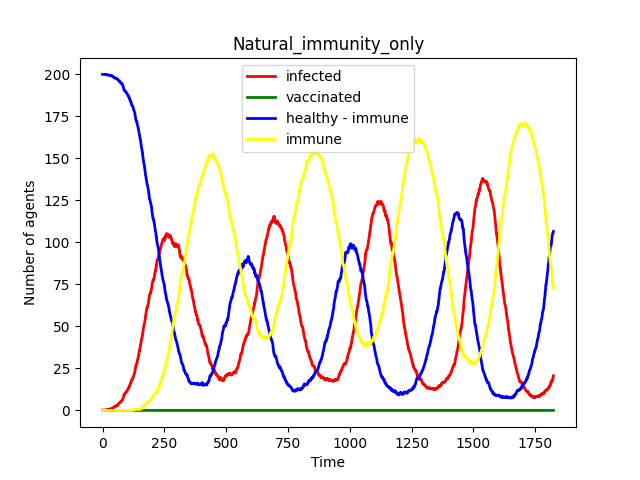
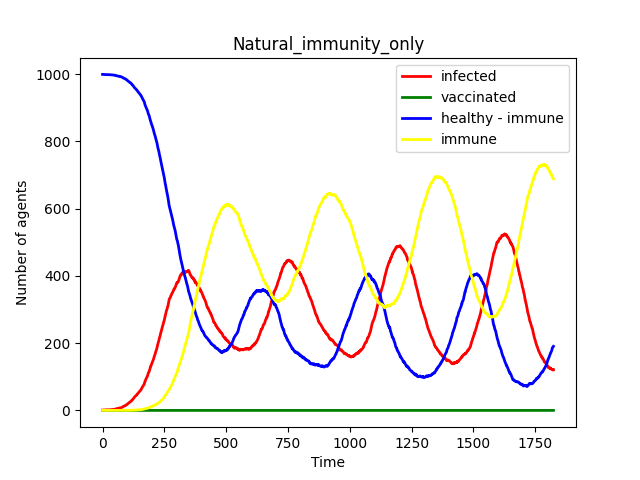
Expériences 2

diff --git a/agent.py b/agent.py
@@ -1,109 +1,106 @@
 from random import randint, random
 
+
 class Agent():
-	"""docstring for Agent."""
-	def __init__(self,i, x, y, vx, vy, pdei):
-		self.id = i
-		self.x = x
-		self.y = y
-		self.vx = vx
-		self.vy = vy
-		self.radius = 10
-		self.infected = False
-		self.infection_time = 0
-		self.infection_duration = randint(90, 150)
-		self.infection_probability = pdei
-		self.infection_radius = 100
-		self.recovered = False
-		self.dejaeu = False
-		self.vaccinate = False
-		self.last_infection_time = 0
-		self.end_infection_time = 0
-		self.end_immune_time = 0
-		self.immune = False
-		self.end_vaccination_time = 0
-		self.dejaetevaccine = False
+    """docstring for Agent."""
 
-	def move(self, container):
-		self.x += self.vx 
-		self.y += self.vy 
+    def __init__(self, i, x, y, vx, vy, pdei):
+        self.id = i
+        self.x = x
+        self.y = y
+        self.vx = vx
+        self.vy = vy
+        self.radius = 10
+        self.infected = False
+        self.infection_time = 0
+        self.infection_duration = randint(90, 150)
+        self.infection_probability = pdei
+        self.infection_radius = 100
+        self.recovered = False
+        self.dejaeu = False
+        self.vaccinate = False
+        self.last_infection_time = 0
+        self.end_infection_time = 0
+        self.end_immune_time = 0
+        self.immune = False
+        self.end_vaccination_time = 0
+        self.dejaetevaccine = False
 
-		if self.x < 0:
-			self.x = 0
-			self.vx = -self.vx
-		
-		elif self.x > container.w:
-			self.x = container.w
-			self.vx = -self.vx
-		
-		elif self.y < 0:
-			self.y = 0
-			self.vy = -self.vy
+    def move(self, container):
+        self.x += self.vx
+        self.y += self.vy
 
-		elif self.y > container.h:
-			self.y = container.h
-			self.vy = -self.vy
+        if self.x < 0:
+            self.x = 0
+            self.vx = -self.vx
 
-	
-	def get_infected(self, time, container):
-		self.infected = True
-		self.infection_time = time
-		self.last_infection_time = time
-		self.end_infection_time = time + self.infection_duration
+        elif self.x > container.w:
+            self.x = container.w
+            self.vx = -self.vx
 
-		container.healthys.remove(self)
-		container.infecteds.append(self)
+        elif self.y < 0:
+            self.y = 0
+            self.vy = -self.vy
 
+        elif self.y > container.h:
+            self.y = container.h
+            self.vy = -self.vy
 
-	def check_for_getting_healthy(self, time, container):
-		if time - self.infection_time > self.infection_duration:
-			self.infected = False	
+    def get_infected(self, time, container):
+        self.infected = True
+        self.infection_time = time
+        self.last_infection_time = time
+        self.end_infection_time = time + self.infection_duration
 
-			container.infecteds.remove(self)
-			container.healthys.append(self)
+        container.healthys.remove(self)
+        container.infecteds.append(self)
 
-			if not self.dejaeu:
-				self.dejaeu = True
-			
-			self.infection_probability /= 0.9
-			
-			self.end_immune_time = self.end_infection_time + 200
-			self.immune = True
+    def check_for_getting_healthy(self, time, container):
+        if time - self.infection_time > self.infection_duration:
+            self.infected = False
 
-			container.immunes.append(self)
+            container.infecteds.remove(self)
+            container.healthys.append(self)
 
-			
-	def distance(self, agent):
-		return ((self.x - agent.x)**2 + (self.y - agent.y)**2)**0.5
+            if not self.dejaeu:
+                self.dejaeu = True
 
+            self.infection_probability /= 0.9
 
-	def infect_neighbours(self, container, time):
-		suspects = list(filter(lambda a: a.id != self.id and not a.vaccinate and not a.immune and a.distance(self) < self.infection_radius, container.healthys))
+            self.end_immune_time = self.end_infection_time + 200
+            self.immune = True
 
-		tours = 0
-		for agent in suspects:
-			tours += 1
-			if random() < agent.infection_probability:
-				agent.get_infected(time, container)
+            container.immunes.append(self)
 
-		return tours
+    def distance(self, agent):
+        return ((self.x - agent.x)**2 + (self.y - agent.y)**2)**0.5
 
-	def get_vaccinated(self, vaccinateds, time):
-		if not self.dejaetevaccine:
-			self.vaccinate = True
-			t =  randint(180, 240)
-			self.end_vaccination_time = time + t
-			self.dejaetevaccine = True
-			vaccinateds.append(self)
+    def infect_neighbours(self, container, time):
+        suspects = list(filter(lambda a: a.id != self.id and not a.vaccinate and not a.immune and a.distance(
+            self) < self.infection_radius, container.healthys))
 
+        tours = 0
+        for agent in suspects:
+            tours += 1
+            if random() < agent.infection_probability:
+                agent.get_infected(time, container)
 
-	def remove_immunity(self, container, time):
-		if self.immune and time > self.end_immune_time:
-			self.immune = False
-			container.immunes.remove(self)
+        return tours
 
-	
-	def remove_vaccination(self, container, time):
-		if self.vaccinate and time > self.end_vaccination_time:
-			self.vaccinate = False
-			container.vaccinateds.remove(self)
+    def get_vaccinated(self, vaccinateds, time):
+        if not self.dejaetevaccine:
+            self.vaccinate = True
+            t = randint(180, 240)
+            self.end_vaccination_time = time + t
+            self.dejaetevaccine = True
+            vaccinateds.append(self)
+
+    def remove_immunity(self, container, time):
+        if self.immune and time > self.end_immune_time:
+            self.immune = False
+            container.immunes.remove(self)
+
+    def remove_vaccination(self, container, time):
+        if self.vaccinate and time > self.end_vaccination_time:
+            self.vaccinate = False
+            container.vaccinateds.remove(self)

diff --git a/model.py b/model.py
@@ -6,7 +6,7 @@ import matplotlib.pyplot as plt
 from time import time
 
 
-def main(name, conf, gestesB, nbr_vacc, history, t):
+def main(conf, gestesB, nbr_vacc, history, t):
     # Initialisation
 
     w, h = 5000, 5000
@@ -14,8 +14,9 @@ def main(name, conf, gestesB, nbr_vacc, history, t):
 
     confinement = conf
     gestesBarrieres = gestesB
-    container.agents = [Agent(i, randint(10, w-10), randint(10, h-10), randint(-20, 20) //
-                              confinement, randint(-20, 20) // confinement, 0.035/gestesBarrieres) for i in range(1000)]
+    container.agents = [Agent(i, randint(10, w-10), randint(10, h-10), randint(-20, 20) // confinement, randint(-20, 20) // confinement, 0.035/gestesBarrieres) for i in range(1000)]
+
+    # print(len(container.agents) - len(container.immunes))
 
     patient0 = choice(container.agents)
 
@@ -29,10 +30,10 @@ def main(name, conf, gestesB, nbr_vacc, history, t):
         tours = 0
         # print("{}/{}".format(i, t), end="    \r")
 
-        history["infected_history"][i] = len(container.infecteds)/5
-        history["healthy_history"][i] = len(container.healthys)/5
-        history["vaccinated_history"][i] = len(container.vaccinateds)/5
-        history["immune_history"][i] = len(container.immunes)/5
+        history["infected_history"][i] += len(container.infecteds)/5
+        history["healthy_history"][i] += len(container.healthys)/5
+        history["vaccinated_history"][i] += len(container.vaccinateds)/5
+        history["immune_history"][i] += len(container.immunes)/5
 
         for agent in container.agents:
             tours += 1
@@ -58,7 +59,7 @@ def main(name, conf, gestesB, nbr_vacc, history, t):
 
         i += 1
 
-        # print("time: {}, infecteds: {}, healthys: {}, len(l): {} nbr_v/j: {}, vaccinates: {}, tours: {}".format(i, len(container.infecteds), len(container.healthys), len(l), nbr_v, len(container.vaccinateds),tours), end="                                              \r")
+        # print("time: {}, infecteds: {}, healthys: {}, len(l): {} nbr_v/j: {}, vaccinates: {}, tours: {}".format(i, len(container.infecteds), len(container.healthys), len(l), nbr_v, len(container.vaccinateds), tours), end="\r")
 
     # print(sum(infected_history))
 
@@ -85,11 +86,11 @@ if __name__ == "__main__":
         print(name)
 
         history = {
-            "infected_history": [None] * t,
-            "healthy_history": [None] * t,
-            "vaccinated_history": [None] * t,
-            "immune_history": [None] * t,
-            "sainsmoinsimmune": [None] * t,
+            "infected_history": [0] * t,
+            "healthy_history": [0] * t,
+            "vaccinated_history": [0] * t,
+            "immune_history": [0] * t,
+            "sainsmoinsimmune": [0] * t,
 
         }
 
@@ -164,7 +165,7 @@ if __name__ == "__main__":
             nbr_vacc = 5
 
         for j in range(5):
-            main(name, confinement, gestesBarrieres, nbr_vacc, history, t)
+            main(confinement, gestesBarrieres, nbr_vacc, history, t)
 
         for i in range(len(history["healthy_history"])):
             history["sainsmoinsimmune"][i] = history["healthy_history"][i] - \

diff --git a/container.py b/container.py
@@ -3,17 +3,17 @@ from random import choice
 
 
 class Container():
-	"""docstring for Container."""
-	def __init__(self, w, h):
-		self.w = w
-		self.h = h
-		self.agents = []
-		self.healthys = []
-		self.infecteds = []
-		self.vaccinateds = []
-		self.immunes = []
+    """docstring for Container."""
 
-	
-	def vaccine_people(self, agents, time):
-		for agent in agents:
-			agent.get_vaccinated(self.vaccinateds, time)
+    def __init__(self, w, h):
+        self.w = w
+        self.h = h
+        self.agents = []
+        self.healthys = []
+        self.infecteds = []
+        self.vaccinateds = []
+        self.immunes = []
+
+    def vaccine_people(self, agents, time):
+        for agent in agents:
+            agent.get_vaccinated(self.vaccinateds, time)

diff --git a/README.md b/README.md
@@ -39,16 +39,18 @@ Dans toutes nos simulations nous utilisons un nombre d'agents fixé à 1000, un 
 
 Avant de commencer à endiguer la maladie, nous avons simuler l'évolution de celle-ci sans mesures de restrictions. Voici le résultat obtenu:
 
-![Natural immunity only](./Courbes/1000_agents_1_contaminé_5_ans/natural_immunity_only.png)
+![Natural immunity only](./Courbes/1000_agents_1_contaminé_5_ans/Natural_immunity_only.png)
 
 On observe des vagues de guérisons et de contaminations qui s'étendent jusqu'à la fin de la simulation. Ces vagues sont dues au fait que nos agents obtinnent une immunité naturelle temporaire après chaque guérison.
 
-### Exprériences et résultats
+### Exprériences, résultats et limites
 
 Nous avons mit en place plusieurs expériences pour tenter de ralentir ou d'éradiquer la maladie. Pour chaque expérience, nous avons conserver les mêmes paramètres pour la simulation et répéter les simulations 5 fois pour réduire les incertitudes dues à l'aléatoire.
 
-Comme première expérience nous avons décidé de confiner la population. Pour ce faire nous divisons les valeurs de vx et vy par deux, puis par 3 et enfin par 5. Ce qui nous ramène à trois tests que nous appellons "confinement leger", "confinement moyen" et "confinement strict". Ceci entraine une réduction des interactions entre les agents. On cherche à savoir quel niveau de confinement permettrait d'éradiquer la maladie et sur quelle durée il faudrai le mettre en place. Nous avons donc trois résultats:
+Comme première expérience nous avons décidé de confiner la population. Pour ce faire nous divisons les valeurs de vx et vy par deux, puis par trois et enfin par cinq. Ce qui nous ramène à trois tests que nous appellons "confinement leger", "confinement moyen" et "confinement strict". Ceci entraine une réduction des interactions entre les agents. On cherche à connaître quel niveau de confinement permettrait d'éradiquer la maladie et sur quelle durée il faudrai le mettre en place.
 
-Dans un deuxieme temps, nous avons décidé de mettre en place un respect des gestes barrières suivant. Nous avons mit en place trois types de gestes barrières: "Basics barrier gestures", "Mediums barrier gestures" et "Heavys barrier gestures". Ces trois types de gestes barrières ont une influence sur les interactions entre les agents. Nous avons donc trois résultats:
+Dans un deuxieme temps, nous avons décidé de mettre en place un respect des gestes barrières suivant. Cette méthode cherche à réduire la probabilité qu'un agent contaminé transmette la maladie à un autre agent lors de leur rencontre. Pour ce faire, nous avons mit en place trois intensités: "Basics barrier gestures", "Mediums barrier gestures" et "Heavys barrier gestures" qui réduisent par deux, trois et cinq la probabilité d'infection. Dans ce cas, on veut savoir jusqu'à quel niveau les gestes barrières peuvent ralentir la maladie.
 
--   La mise en place d'un vaccin
+Nous avons ensuite instauré un cycle de vaccination. En effet, dans la simulation, chaque jour, nous vaccinons un nombre d'agents définits au préalable.Le vaccin donne une imunité plus longue que celle obtenue naturellement. Au seins même de cette expérience nous avons pu tester plusieurs choses. Dans un premier temps, les agents n'effectuent qu'une seule vaccination qui les imunisent un certain temps mais finissent par attraper la maladie à la fin de leur prériode de vaccination.
+
+Par la suite, nous avons implémenté les rappels de vaccins. Nous revaccinons les agents dès lors que leur vaccin ne fait plus effet. On regarde donc le seuil minimal de personnes à vacciner par jour pour que la maladie soit éradiquée.
